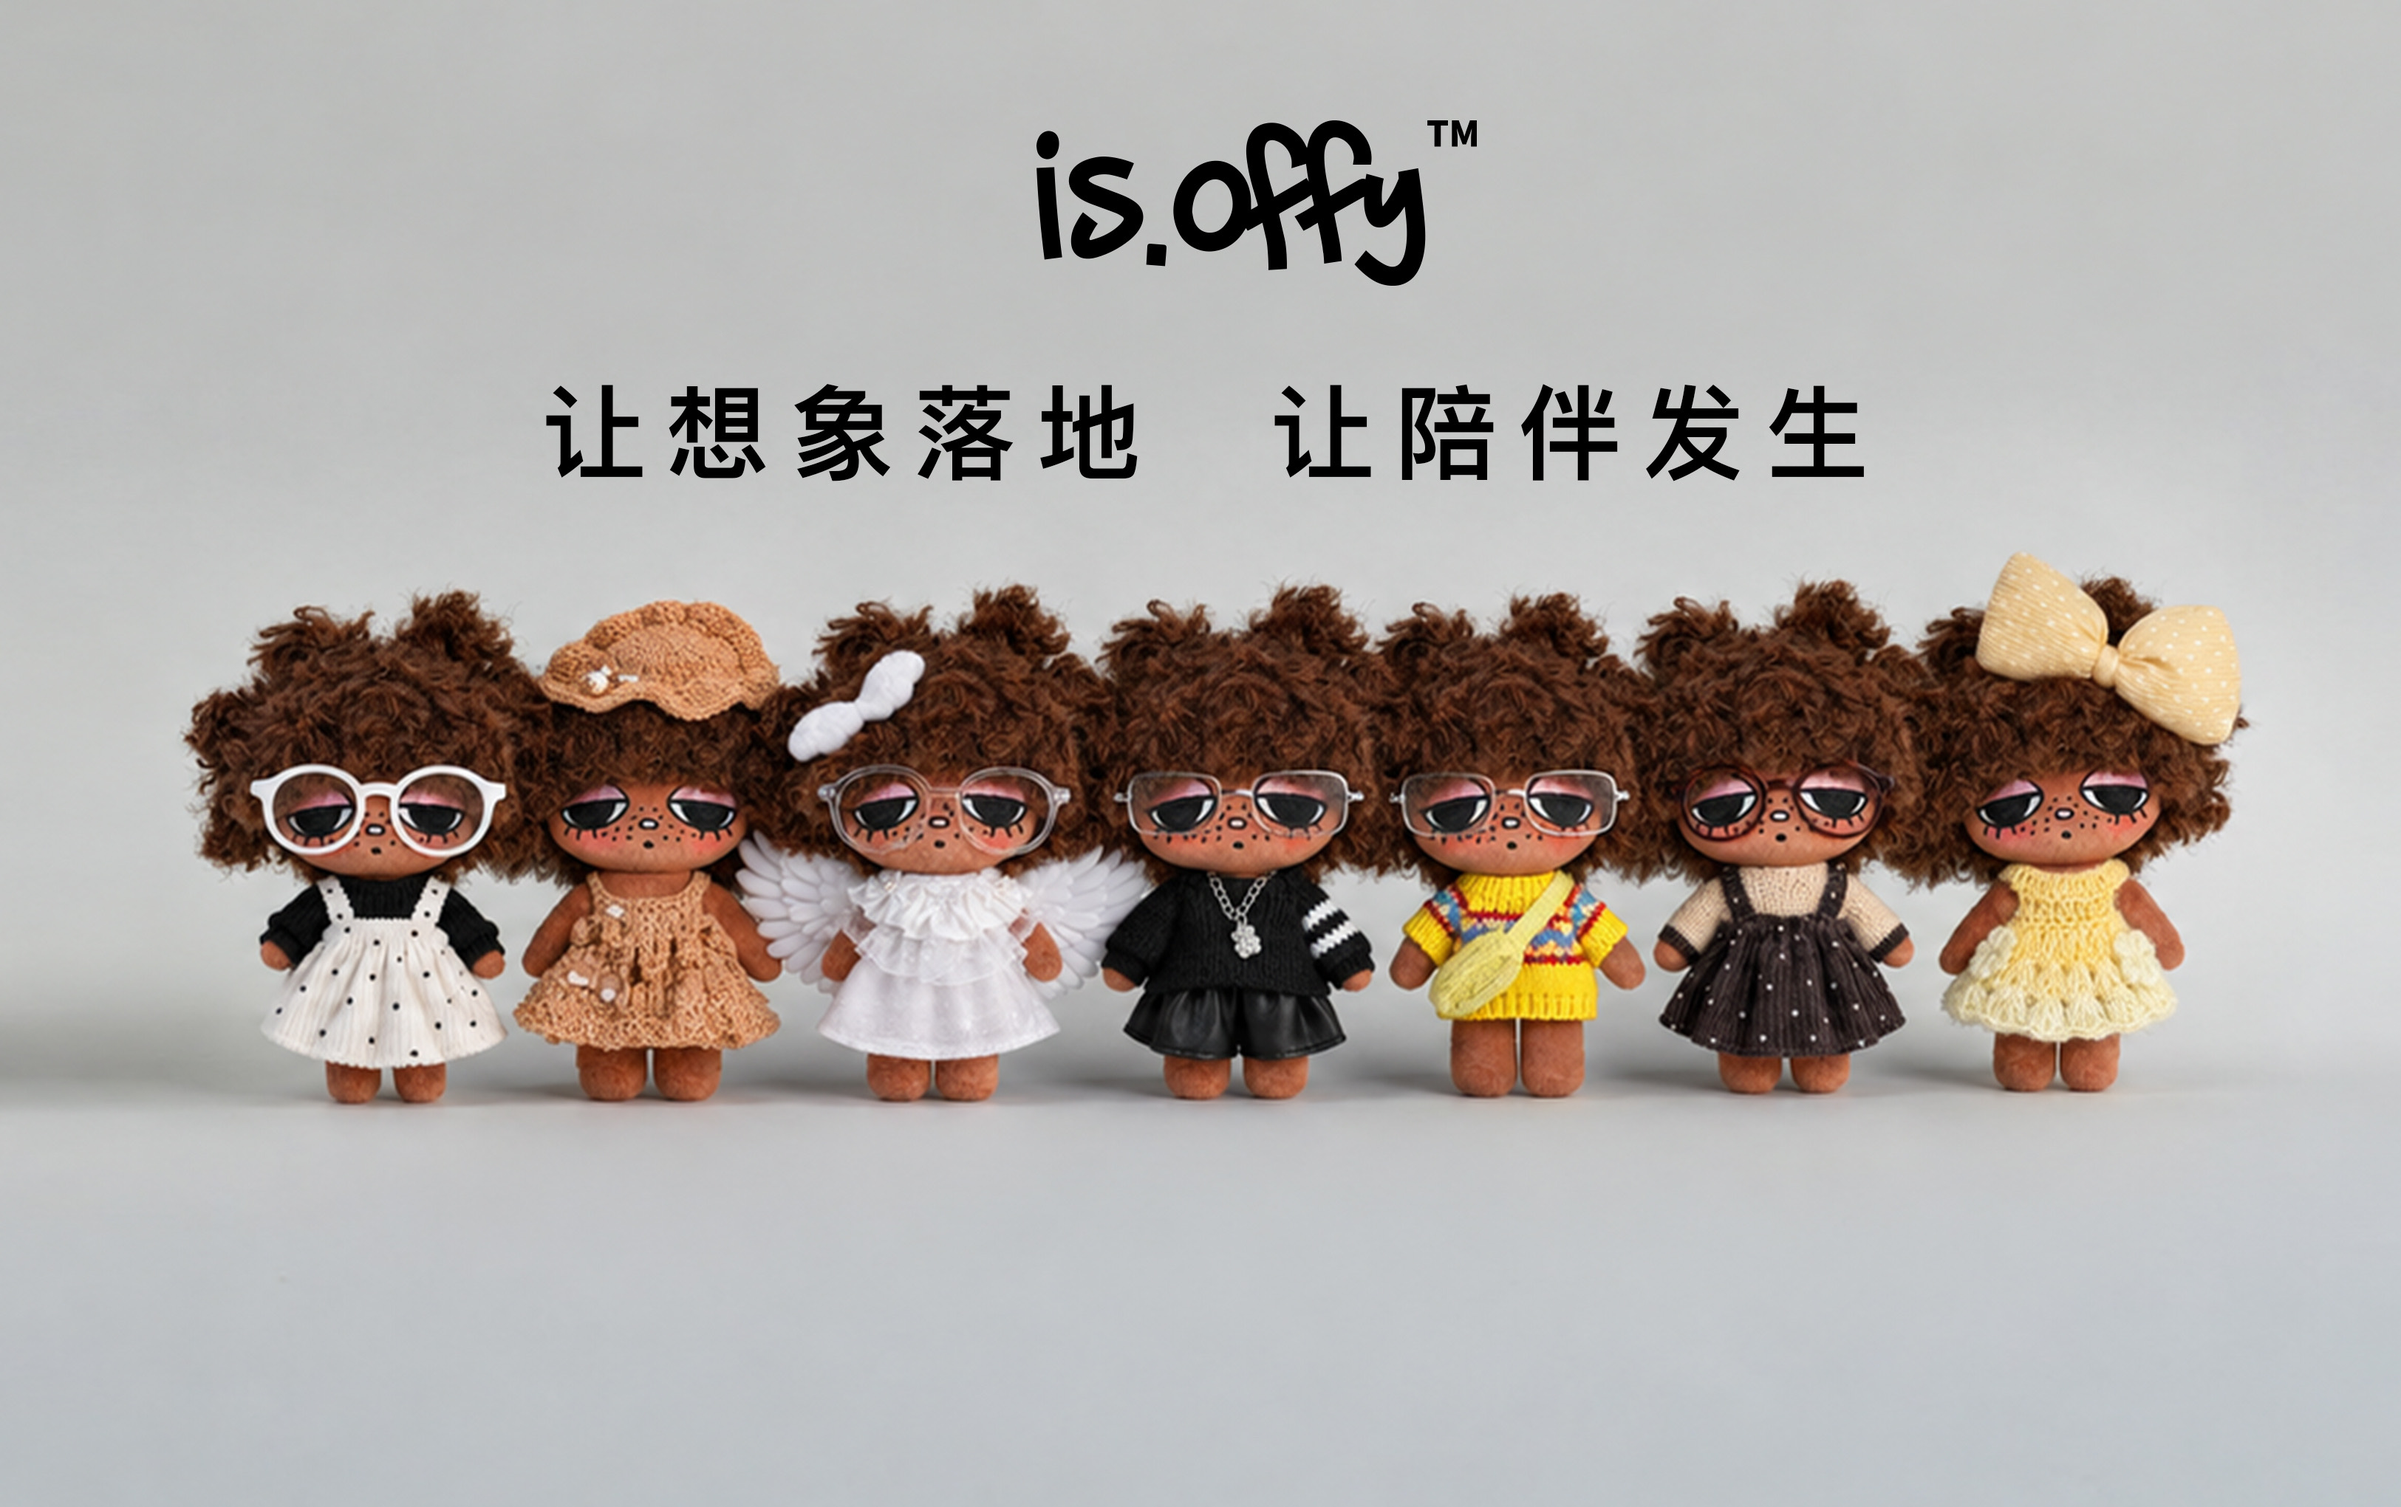
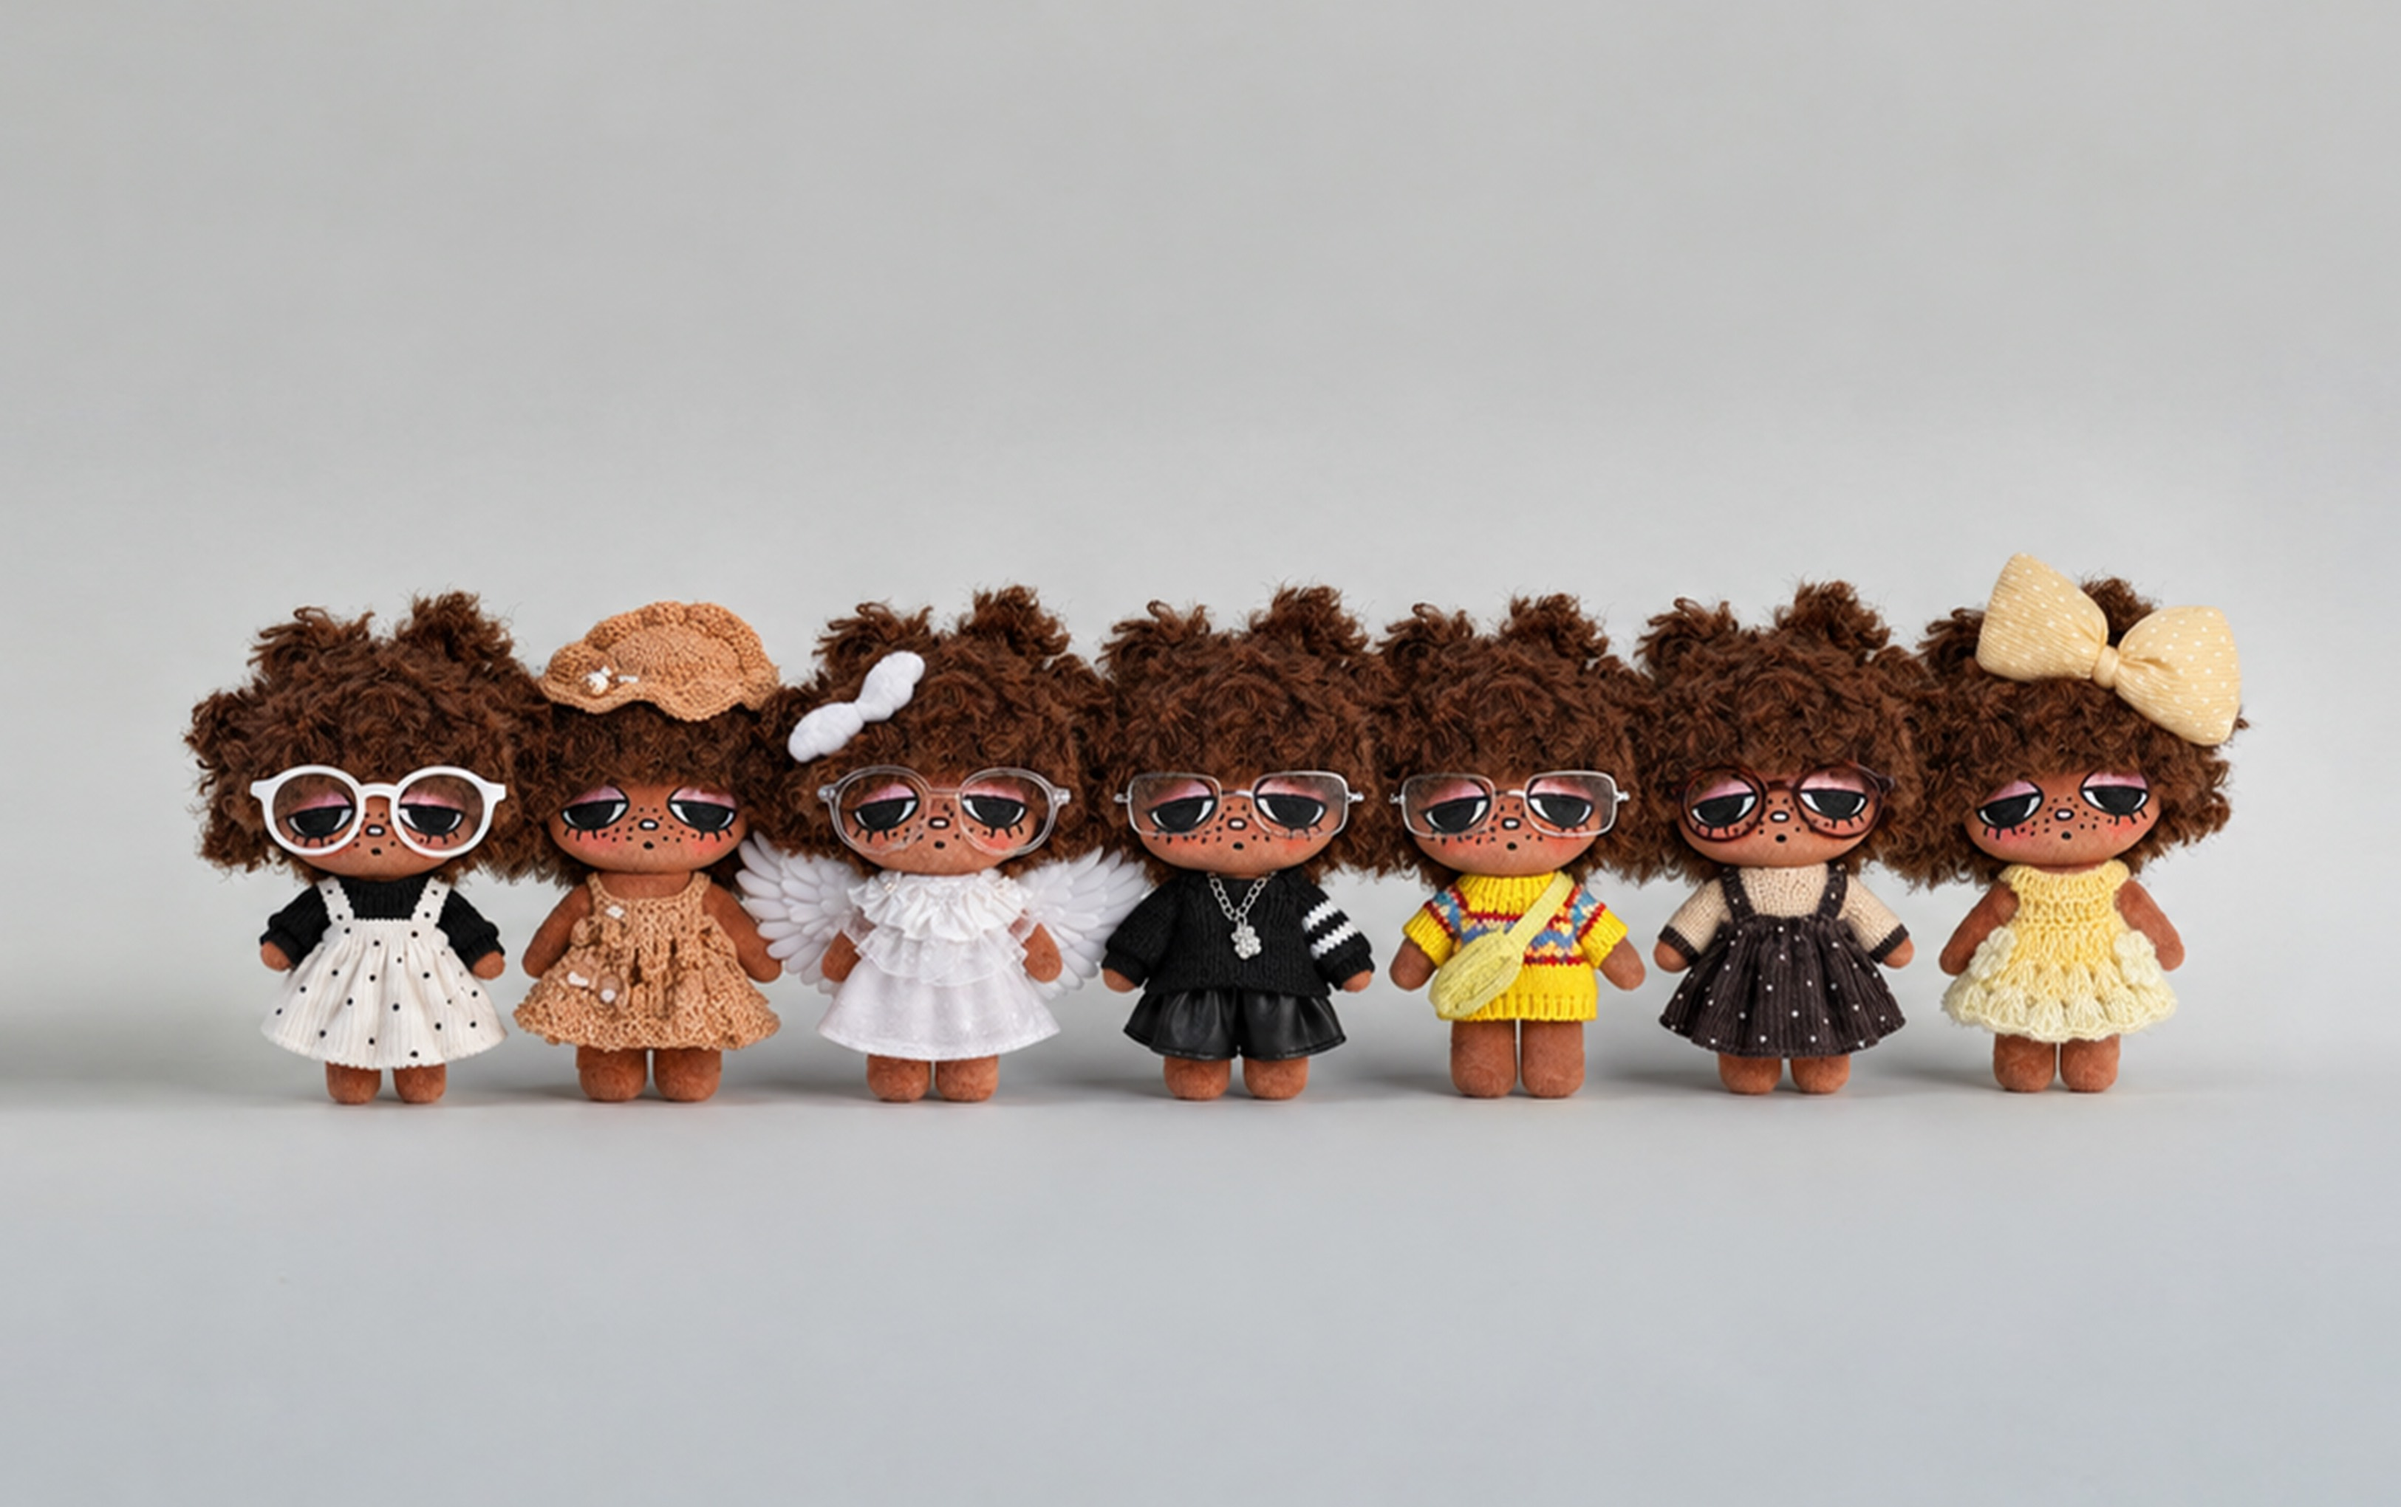
fix(hero): clean brand bg (no baked text), CTA pill border, arrow gap
Design review follow-up on the 0926 hero rebuild:

1. Slide 1 used 5.jpg which has the wordmark+slogan baked into the
   pixels, doubling up with the live text. The other four backgrounds
   verified correct via pixel-diff against the 效果图 renders (1-4.jpg
   match streetwear/playful/princess/promo, all text-free). Replaced
   hero-brand.jpg with the text-free artwork layer ("ChatGPT Image…")
   extracted straight from the PSD's 让想象落地 group — OCR-verified
   clean, pixel-diff 0.1-0.8 vs the rendering's art zones.
2. View Details button: PSD 矩形7 is a pill (corner radius ~47% of
   height) with a 3px stroke and no fill (black on light slides,
   #f3f0f1 on the dark slide) — restored rounded-full + border; hover
   inverts fill and arrow.
3. Prev/next arrows: rendering shows ~8-12px gap between the two
   buttons and slightly rounded corners — added gap-1 + rounded-[4px].

Verified in real Chrome: slide-1 OCR shows a single live slogan in both
locales; CTA computed style = solid border + pill radius + transparent
fill; arrow gap = 4px. 191/191 tests green.

diff --git a/src/components/home/HeroCarousel.tsx b/src/components/home/HeroCarousel.tsx
@@ -92,17 +92,21 @@ export function HeroCarousel({
           {title}
         </p>
         {/* 查看详情(PSD x73.8% y62.8% w11.6% h4.95%,与副标题同带;
-            无边框:47px=1.45cqw 文字 + 箭头图标,浅底黑字/深底白字) */}
+            PSD 矩形7:胶囊形(角半径≈47%高=rounded-full)+ 3px 描边无填充
+            (浅底黑边黑字/深底 #f3f0f1 白边白字),47px=1.45cqw 文字 + 箭头图标;
+            hover 反色填充,箭头同步反色。 */}
         <Link
           href={s.href!}
-          className={`group absolute left-[73.8%] top-[62.8%] flex h-[4.95%] min-h-[28px] w-[11.6%] min-w-[84px] items-center justify-center gap-1.5 text-[clamp(10px,1.45cqw,21px)] font-normal transition-opacity hover:opacity-60 ${
-            s.dark ? "text-cream" : "text-ink"
+          className={`group absolute left-[73.8%] top-[62.8%] flex h-[4.95%] min-h-[28px] w-[11.6%] min-w-[84px] items-center justify-center gap-1.5 rounded-full border-[1.5px] text-[clamp(10px,1.45cqw,21px)] font-normal transition-colors ${
+            s.dark
+              ? "border-cream text-cream hover:bg-cream hover:text-ink"
+              : "border-ink text-ink hover:bg-ink hover:text-cream"
           }`}
           onClick={(e) => e.stopPropagation()}
         >
           <span className="whitespace-nowrap">{t("heroDetailsCta")}</span>
           {/* eslint-disable-next-line @next/next/no-img-element */}
-          <img src={arrowSrc} alt="" className="h-[0.85em] w-auto" />
+          <img src={arrowSrc} alt="" className="h-[0.85em] w-auto transition-colors group-hover:invert" />
         </Link>
       </>
     );
@@ -210,13 +214,14 @@ export function HeroCarousel({
             ))}
           </div>
           {/* 右下 ←/→ 箭头按钮(PSD y76.3-82.3%,与主标题同带;x89.8-97.2%;
-              120×122px≈3.7cqw 方形,黑 50% 透明底 + 白色箭头图标) */}
-          <div className="absolute right-[2.8%] top-[76.3%] flex">
+              120×122px≈3.7cqw 方形,黑 50% 透明底 + 白色箭头图标;
+              效果图实测两按钮间有约 8-12px 间距(gap-1)且角部微圆) */}
+          <div className="absolute right-[2.8%] top-[76.3%] flex gap-1">
             <button
               type="button"
               aria-label={t("heroPrevSlide")}
               onClick={() => go(active - 1)}
-              className="pointer-events-auto flex h-[clamp(30px,3.7cqw,48px)] w-[clamp(30px,3.7cqw,48px)] items-center justify-center bg-ink/50 transition-colors hover:bg-ink/70"
+              className="pointer-events-auto flex h-[clamp(30px,3.7cqw,48px)] w-[clamp(30px,3.7cqw,48px)] items-center justify-center rounded-[4px] bg-ink/50 transition-colors hover:bg-ink/70"
             >
               {/* eslint-disable-next-line @next/next/no-img-element */}
               <img src="/assets/hero/arrow-left.png" alt="" className="h-[clamp(8px,1.2cqw,15px)] w-auto" />
@@ -225,7 +230,7 @@ export function HeroCarousel({
               type="button"
               aria-label={t("heroNextSlide")}
               onClick={() => go(active + 1)}
-              className="pointer-events-auto flex h-[clamp(30px,3.7cqw,48px)] w-[clamp(30px,3.7cqw,48px)] items-center justify-center bg-ink/50 transition-colors hover:bg-ink/70"
+              className="pointer-events-auto flex h-[clamp(30px,3.7cqw,48px)] w-[clamp(30px,3.7cqw,48px)] items-center justify-center rounded-[4px] bg-ink/50 transition-colors hover:bg-ink/70"
             >
               {/* eslint-disable-next-line @next/next/no-img-element */}
               <img src="/assets/hero/arrow-right.png" alt="" className="h-[clamp(8px,1.2cqw,15px)] w-auto" />
